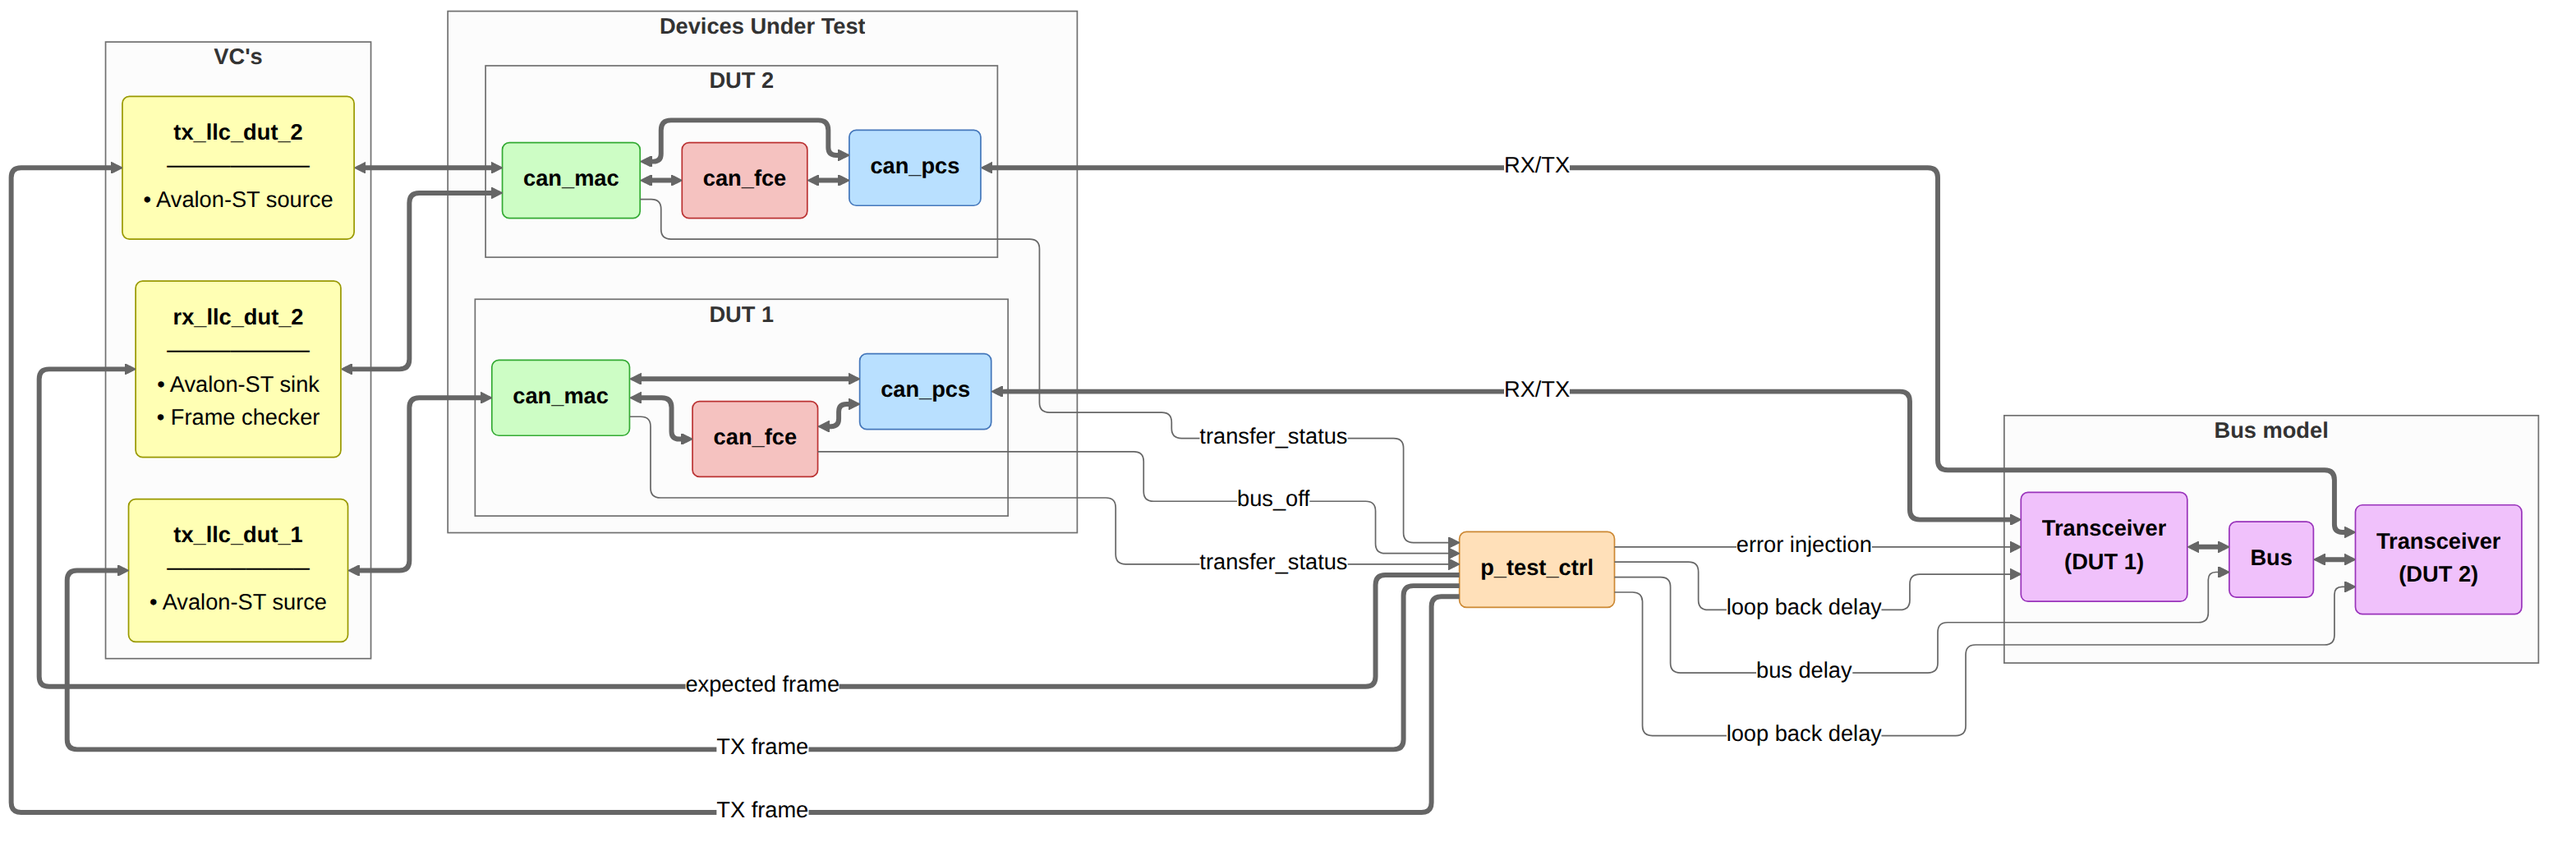
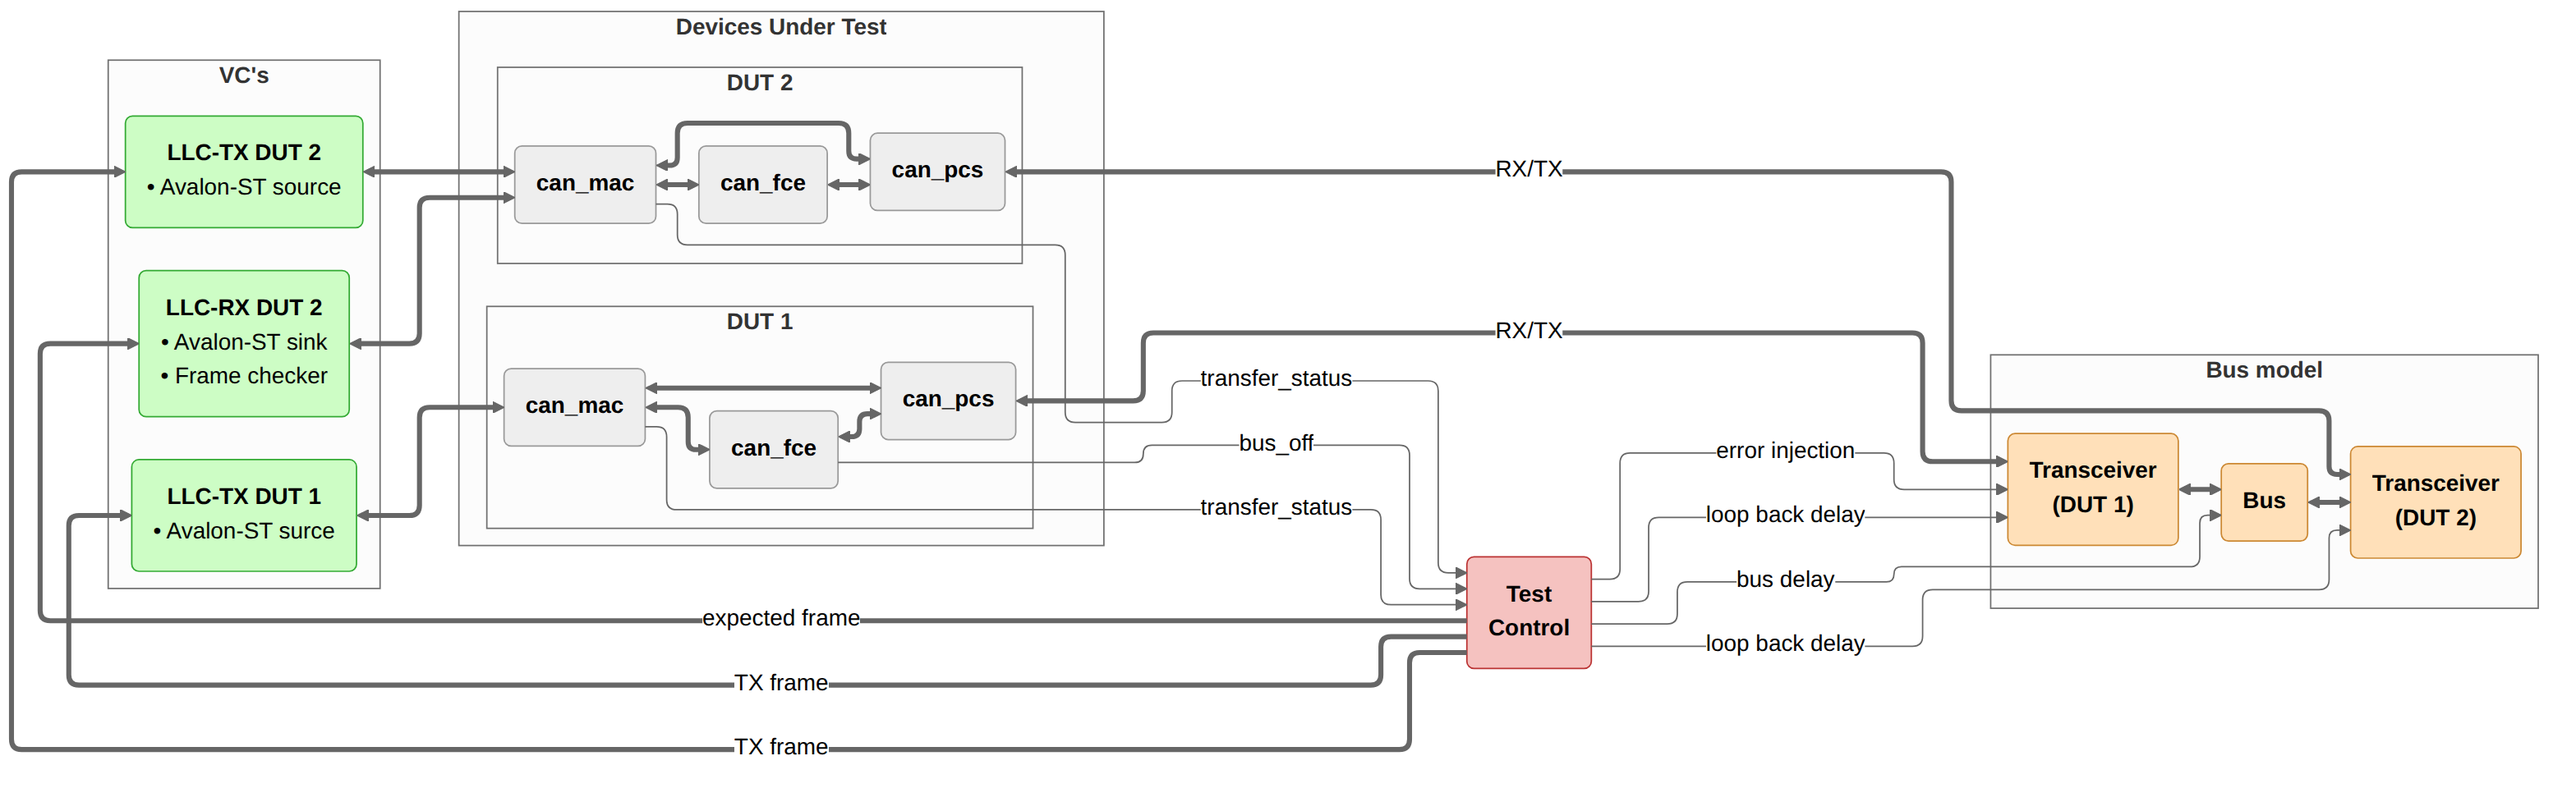
update

Changed region(s): [[0.0, 0.0, 1.0, 0.9688], [0.1875, 0.6562, 0.2188, 0.6875]]

diff --git a/defense/slides.tex b/defense/slides.tex
@@ -415,7 +415,7 @@ $\deg(B) < \deg(G) = 15$. CRC-17/21 raise ceiling to 17/21 bits for longer FD fr
 	\begin{columns}[T]
 		\begin{column}{0.40\textwidth}
 			\begin{itemize}\setlength{\itemsep}{6pt}
-				\item 37 requirements extracted from ISO\,11898-1
+				\item 37 requirements distilled from ISO\,11898-1
 				\item AI-assisted extraction and manual review
 				\item Managed via MCP server for safe incremental AI-assisted updates throughout design and verification
 			\end{itemize}
@@ -428,7 +428,7 @@ $\deg(B) < \deg(G) = 15$. CRC-17/21 raise ceiling to 17/21 bits for longer FD fr
 				id             & REQ-NNN                                \\
 				source\_clause & ISO\,11898-1 section reference         \\
 				paraphrase     & Concise restatement                    \\
-				layer          & LLC / MAC / PCS / FCE                  \\
+				layer          & LLC / MAC / PCS / FCE / System         \\
 				side           & TX / RX / both                         \\
 				format         & CB / CE / FB / FE                      \\
 				observability  & black\_box / white\_box                \\
@@ -442,6 +442,13 @@ $\deg(B) < \deg(G) = 15$. CRC-17/21 raise ceiling to 17/21 bits for longer FD fr
 		\end{column}
 	\end{columns}
 \end{frame}
+\note{\footnotesize\begin{itemize}\setlength{\itemsep}{4pt}
+		\item AI-assisted extraction: Claude bootstrapped 168 normative statements from ISO\,11898-1. Manual distillation step --- consolidating to 37 prioritised, independently verifiable requirements --- was substantial and irreplaceable. Primary benefit of AI assistance was consistency, not speed.
+		\item The five classification dimensions (layer, side, format, observability, method) make each requirement independently testable and unambiguously assigned to one implementation unit.
+		\item MCP server wraps the TOML file with a typed write interface. Claude Code agents use it throughout design and verification to update status, add labels, and link files --- the narrow interface prevents silent data corruption that would occur with direct file edits.
+		\item P1 = need-to-have (shall requirements, core correctness). P2 = nice-to-have. P3 = optional (should clauses). Priority drives the verification schedule.
+		\item \texttt{label} and \texttt{file} are the traceability endpoints --- label names the TB procedure or RTL tag, file is the testbench or RTL source. Together they link each requirement to runnable evidence.
+	\end{itemize}}
 
 % ==========================================
 % SLIDE 9b: Verification results
